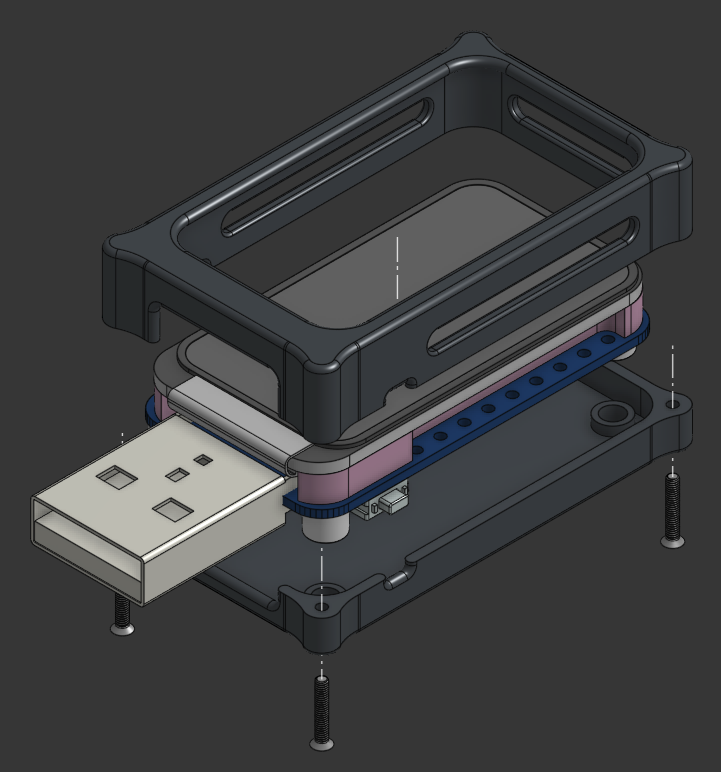
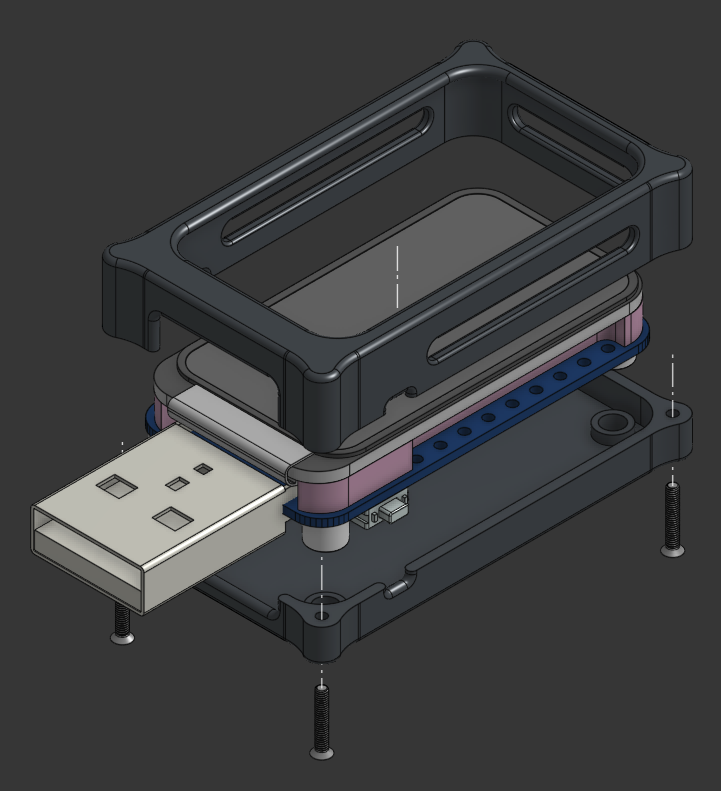
docs: update README with structured image previews

diff --git a/hardware/README.md b/hardware/README.md
@@ -1,10 +1,5 @@
 # Preview
 
-## ESP-STICK 3D View
-![ESP-STICK assembled 3D view](espstick.png)
-
-## ESP-STICK Exploded Assembly 3D Bottom View
-![ESP-STICK exploded assembly 3D view](assembly-exploded-bottom.png)
-
-## ESP-STICK Exploded Assembly 3D Top View
-![ESP-STICK exploded assembly 3D view](assembly-exploded.png)
+| ESP-STICK 3D View | ESP-STICK Exploded Assembly 3D Bottom View | ESP-STICK Exploded Assembly 3D Top View |
+| --- | --- | --- |
+| ![ESP-STICK assembled 3D view](img/espstick.png) | ![ESP-STICK exploded assembly 3D bottom view](img/assembly-exploded-bottom.png) | ![ESP-STICK exploded assembly 3D top view](img/assembly-exploded.png) |
